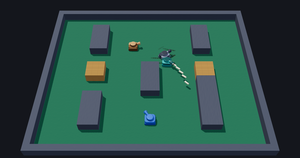
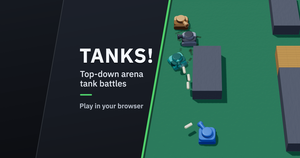
Issue #973 evidence: the split-card share image (round 2)

diff --git a/issue-973/README.md b/issue-973/README.md
@@ -1,21 +1,40 @@
-# Issue #973 evidence: the link-card image
+# Issue #973 evidence: the share image (round 2, the split card)
 
-- `share-image.png`: byte-identical to `public/share-image.png` on branch `feat/share-image`
[1 lines of base64/hex data omitted]
-  1200x630 RGB PNG).
-- `share-image-300.png`: the same image downscaled to 300 px wide, for the legibility criterion.
-- `source-frame-0001.png`: the uncropped frame it was cut from (2480x1340), so the crop can be
-  checked.
+`share-image.png` is `public/share-image.png` in PR #1047: a 1200x630 palette PNG, 96,965 bytes,
[1 lines of base64/hex data omitted]
 
-## Provenance
+The owner chose it on 2026-10-10 from two rounds of options. In round 1, seven concepts were
+shown and the owner picked the split card, saying the square crop was bad. In round 2, five
+square-safe versions of the split card were shown, and this is the "seam at the centre" one.
+The owner's ruling: "973's rule can be amended", and the amendment is on #973.
 
-- Source: `npm run gallery -- --scene game --w 1200 --h 630 --dpr 2 --burst 30 --settle 4300 --out gallery-out/share-973b`,
-  frame `frame-0001.png`, on the tree of `main` at `1e110d34`. `--scene game` drives the real
-  game page through New Game and shoots its real camera. No query string: no `?dev=1`, no
-  developer flag, no experimental arm. No seed either, because the seed is a developer flag; the
-  round is campaign level 1 as a player starts it.
-- Crop and scale: `ffmpeg -i frame-0001.png -vf "crop=2400:1260:40:80,scale=1200:630:flags=lanczos" share-image.png`.
-  The 80-pixel top offset removes the HUD's topbar, which sits above the board.
-- 300 px copy: `ffmpeg -i share-image.png -vf "scale=300:-1:flags=lanczos" share-image-300.png`.
-- Frame choice: the burst's later frames end in Game Over (the idle player is shot), and its
-  first frame still shows a respawn countdown digit; frame 1 is the live round between them.
+## Source frame
+
+`source-frame-0008.png` (3280x1880, SHA-256 `e856f08f...cfa2c2`) is frame 8 of
+`npm run gallery -- --scene game --w 1600 --h 900 --dpr 2 --slowmo 0.3 --burst 16 --settle 12000 --out gallery-out/share-main-1600-slow30`.
+It was run on a detached checkout of `main` at `c200cf62`.
+
+- The command uses no query string, so there is no `dev=1`, flag or seed.
+- `--slowmo 0.3` scales only the clocks the game reads, never what it draws. Without it the idle
+  player loses all three lives within a few frames of a full-speed burst.
+
+## Composition
+
+The `*.txt` files are the one-off build scripts. They live outside the repository, as the
+amended rules ask. Run `build.sh` to reproduce `share-image.png` byte for byte; this was checked
+by rebuilding in a fresh folder, which gave the same SHA-256.
+
+1. `ffmpeg` crops the frame to x 934-2324, y 467-1617 and scales it 1.1x with Lanczos. That is
+   a net 0.55 of source size in the final card. Gameplay pixels are cropped and scaled only.
+2. `render.mjs` (Playwright, device scale 2) renders `card.html`. The card is the board, a dark
+   panel in the HUD palette, the splash title "TANKS!" in the bundled IBM Plex Sans, two lines of
+   copy, a green accent rule and a slanted green seam at the centre.
+3. `ffmpeg` scales the render to 1200x630 with Lanczos. `quantize.py` (Pillow) reduces it to a
+   256-colour palette: Floyd-Steinberg dithering on the board, nearest colour on the flat panel.
+
+## Check copies
+
+- `share-image-300.png`: the full card at 300 px wide.
+- `share-image-square-630.png` and `share-image-square-200.png`: the centred 630x630 square
+  (x 285-915) that compact link previews crop to. It holds the whole title, the copy and all four
+  tanks.
